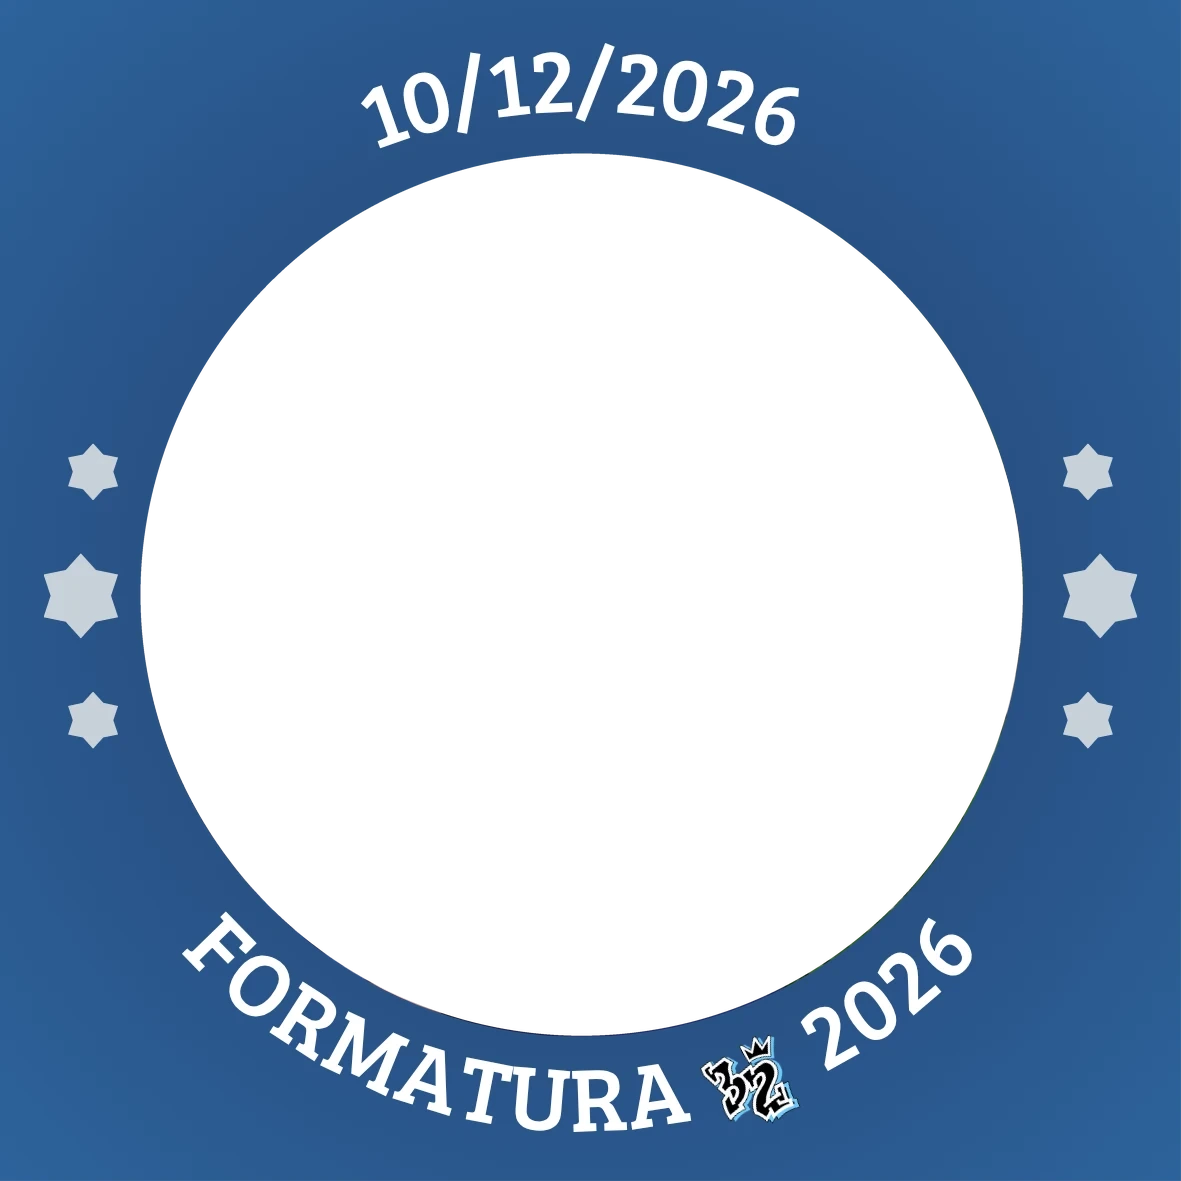
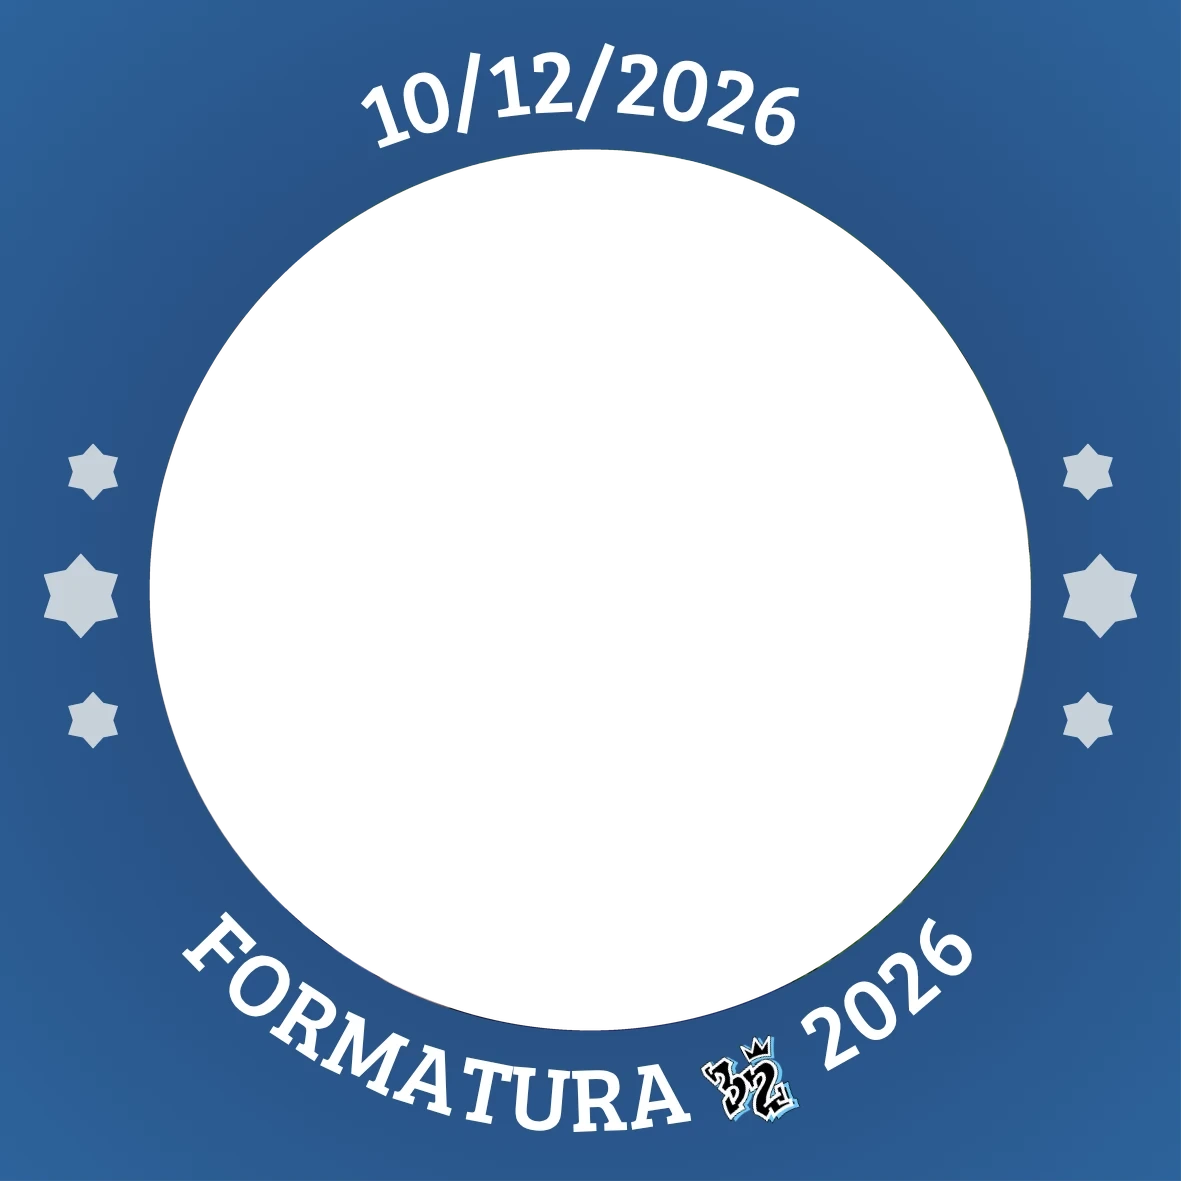
Adesivos: moldura de criança refeita a partir do modelo centralizado; todos os adesivos redondos, com a arte dentro do círculo
Claude-Session: https://claude.ai/code/session_01ApbxyEJycgSxQ1DmdRgPHa

diff --git a/src/pages/Adesivos.tsx b/src/pages/Adesivos.tsx
@@ -30,7 +30,8 @@ import {
   type Modelo,
   type Pedido,
 } from '../lib/adesivos';
-import { analisarCores, CORES, nomeDaCor, pintar, type Camada, type CamadaSugerida } from '../lib/cores';
+import { analisarCores, CORES, nomeDaCor, type Camada, type CamadaSugerida } from '../lib/cores';
+import { adesivoRedondo } from '../lib/redondo';
 import { lerEleitor, salvarEleitor } from '../lib/eleitor';
 import { COLUNAS, DIAMETRO, FOLHA, folhasPara, itensDasFolhas, LINHAS, MARGEM, pdfDasFolhas, POR_FOLHA } from '../lib/folhas';
 import { useIsMobile } from '../lib/useViewport';
@@ -55,21 +56,29 @@ function ArteDoModelo({ modelo, foto, nome, cores }: { modelo: Modelo; foto: str
     );
   }
   if (!modelo.imagem) return null;
-  const estilo: CSSProperties = { maxWidth: '100%', maxHeight: '100%', objectFit: 'contain', filter: 'drop-shadow(0 14px 22px rgba(0,0,0,.5))' };
-  return cores && modelo.camadas.length ? (
-    <ImagemNaCor imagem={modelo.imagem} camadas={modelo.camadas} cores={cores} alt={`${modelo.nome} (${descreverCores(modelo, cores)})`} style={estilo} />
-  ) : (
-    <img src={modelo.imagem} alt={modelo.nome} style={estilo} />
+  return (
+    <div style={{ width: '100%', borderRadius: '50%', boxShadow: '0 18px 40px rgba(0,0,0,.55)' }}>
+      <ImagemNaCor
+        imagem={modelo.imagem}
+        camadas={modelo.camadas}
+        cores={cores && modelo.camadas.length ? cores : null}
+        alt={cores && modelo.camadas.length ? `${modelo.nome} (${descreverCores(modelo, cores)})` : modelo.nome}
+      />
+    </div>
   );
 }
 
-/** A custom-colour sticker's picture, painted with `cores` (the original shows meanwhile). */
-function ImagemNaCor({ imagem, camadas, cores, alt, style }: { imagem: string; camadas: Camada[]; cores: string[]; alt: string; style?: CSSProperties }) {
+/**
+ * A sticker as it comes out: round, the picture fitted inside the circle on
+ * white (lib/redondo.ts), painted with `cores` when given. A plain white
+ * circle shows meanwhile.
+ */
+function ImagemNaCor({ imagem, camadas, cores, alt, style }: { imagem: string; camadas: Camada[]; cores: string[] | null; alt: string; style?: CSSProperties }) {
   const [url, setUrl] = useState<string | null>(null);
   useEffect(() => {
     let ativo = true;
     let criado: string | null = null;
-    pintar(imagem, camadas, cores).then(
+    adesivoRedondo(imagem, 600, camadas, cores).then(
       (blob) => {
         if (!ativo) return;
         criado = URL.createObjectURL(blob);
@@ -81,8 +90,12 @@ function ImagemNaCor({ imagem, camadas, cores, alt, style }: { imagem: string; c
       ativo = false;
       if (criado) URL.revokeObjectURL(criado);
     };
-  }, [imagem, JSON.stringify(camadas), cores.join()]);
-  return <img src={url ?? imagem} alt={alt} style={{ ...style, transition: 'opacity 200ms', opacity: url ? 1 : 0.6 }} />;
+  }, [imagem, JSON.stringify(camadas), cores?.join()]);
+  return url ? (
+    <img src={url} alt={alt} style={{ display: 'block', width: '100%', aspectRatio: '1', ...style }} />
+  ) : (
+    <div role="img" aria-label={alt} style={{ width: '100%', aspectRatio: '1', borderRadius: '50%', background: '#ffffff', opacity: 0.85, ...style }} />
+  );
 }
 
 /**
@@ -863,7 +876,7 @@ function FolhasDaGrafica({ pedidos, modelos, fotos }: { pedidos: Pedido[]; model
         </span>
         <span style={pequeno}>
           Cada adesivo com {DIAMETRO / 10} cm, margem de {MARGEM / 10} cm em volta da folha, {COLUNAS} × {LINHAS} = {POR_FOLHA} adesivos por folha. Um PDF no
-          tamanho real, uma página por folha. Os adesivos de criança saem redondos; os outros, com o lado maior em {DIAMETRO / 10} cm.
+          tamanho real, uma página por folha. Todos redondos: uma arte que não é redonda (como o 32) vai encaixada inteira dentro do círculo, sobre branco, com uma folga para o corte.
         </span>
         {semFoto.length > 0 ? (
           <span style={{ ...pequeno, color: 'var(--gild-300)' }}>
@@ -894,7 +907,7 @@ function LinhaGrafica({ chave, quantidade, modelos }: { chave: string; quantidad
     if (!modelo?.imagem || !cores) return;
     setBaixando(true);
     try {
-      salvarArquivo(await pintar(modelo.imagem, modelo.camadas, cores), `${slugDoNome(modelo.nome)}-${slugDoNome(cores.map((c) => nomeDaCor(c)).join('-'))}.png`);
+      salvarArquivo(await adesivoRedondo(modelo.imagem, 709, modelo.camadas, cores), `${slugDoNome(modelo.nome)}-${slugDoNome(cores.map((c) => nomeDaCor(c)).join('-'))}.png`);
     } catch (e) {
       window.alert(mensagemDe(e, 'Não foi possível baixar agora.'));
     } finally {
@@ -1007,7 +1020,7 @@ function ModelosDaComissao({
                   {m.crianca ? (
                     <AdesivoCrianca foto={null} nome="" />
                   ) : m.imagem ? (
-                    <img src={m.imagem} alt="" style={{ maxWidth: '100%', maxHeight: '100%', objectFit: 'contain' }} />
+                    <ImagemNaCor imagem={m.imagem} camadas={m.camadas} cores={null} alt="" />
                   ) : null}
                 </div>
                 <div style={{ display: 'flex', flexDirection: 'column', gap: 2, flex: 1, minWidth: 0 }}>
@@ -1235,7 +1248,7 @@ function FormModelo({
               }}
             >
               {previa ? (
-                <img src={previa} alt="" style={{ maxWidth: '100%', maxHeight: '100%', objectFit: 'contain' }} />
+                <ImagemNaCor imagem={previa} camadas={[]} cores={null} alt="" />
               ) : (
                 <>
                   <ImagePlus size={32} />

diff --git a/src/lib/redondo.ts b/src/lib/redondo.ts
@@ -1,0 +1,117 @@
+import { pintar, type Camada } from './cores';
+
+/**
+ * Every sticker is round (6 cm). A picture that isn't (the 32, cut to its
+ * shape) is fitted inside the circle, on white: centred on what's visible
+ * of it, and shrunk until no visible pixel comes closer than FOLGA to the
+ * edge — so nothing gets cut off.
+ */
+
+/** Space kept between the art and the cut, as a share of the radius. */
+const FOLGA = 0.1;
+
+const prontos = new Map<string, Promise<Blob>>();
+
+function carregar(src: string): Promise<HTMLImageElement> {
+  return new Promise((resolve, reject) => {
+    const img = new Image();
+    img.crossOrigin = 'anonymous';
+    img.onload = () => resolve(img);
+    img.onerror = () => reject(new Error('Não foi possível carregar a imagem do adesivo.'));
+    img.src = src;
+  });
+}
+
+/** The round sticker, `lado` pixels across, as a PNG (transparent outside the circle). */
+export function noCirculo(src: string, lado: number): Promise<Blob> {
+  const chave = `${src}|${lado}`;
+  if (!prontos.has(chave)) {
+    const feito = (async () => {
+      const img = await carregar(src);
+      // Where the visible pixels are (measured on a smaller copy, enough for this).
+      const k = Math.min(1, 400 / Math.max(img.naturalWidth, img.naturalHeight));
+      const w = Math.max(1, Math.round(img.naturalWidth * k));
+      const h = Math.max(1, Math.round(img.naturalHeight * k));
+      const medida = document.createElement('canvas');
+      medida.width = w;
+      medida.height = h;
+      const mctx = medida.getContext('2d', { willReadFrequently: true })!;
+      mctx.drawImage(img, 0, 0, w, h);
+      const px = mctx.getImageData(0, 0, w, h).data;
+      let x0 = w;
+      let y0 = h;
+      let x1 = 0;
+      let y1 = 0;
+      for (let y = 0; y < h; y++)
+        for (let x = 0; x < w; x++)
+          if (px[(y * w + x) * 4 + 3] > 20) {
+            if (x < x0) x0 = x;
+            if (x > x1) x1 = x;
+            if (y < y0) y0 = y;
+            if (y > y1) y1 = y;
+          }
+      if (x1 < x0) {
+        x0 = 0;
+        y0 = 0;
+        x1 = w - 1;
+        y1 = h - 1;
+      }
+      const cx = (x0 + x1 + 1) / 2;
+      const cy = (y0 + y1 + 1) / 2;
+      // The farthest visible pixel (its far corner) from that centre.
+      let longe = 1;
+      for (let y = y0; y <= y1; y++)
+        for (let x = x0; x <= x1; x++)
+          if (px[(y * w + x) * 4 + 3] > 20) {
+            const d = Math.hypot(Math.max(Math.abs(x - cx), Math.abs(x + 1 - cx)), Math.max(Math.abs(y - cy), Math.abs(y + 1 - cy)));
+            if (d > longe) longe = d;
+          }
+
+      const canvas = document.createElement('canvas');
+      canvas.width = lado;
+      canvas.height = lado;
+      const ctx = canvas.getContext('2d')!;
+      const raio = lado / 2;
+      ctx.beginPath();
+      ctx.arc(raio, raio, raio, 0, Math.PI * 2);
+      ctx.fillStyle = '#ffffff';
+      ctx.fill();
+      ctx.save();
+      ctx.clip();
+      // Art pixels per small-copy pixel, so the farthest one lands FOLGA inside the edge.
+      const escala = (raio * (1 - FOLGA)) / longe;
+      const escalaOriginal = escala * k;
+      ctx.imageSmoothingQuality = 'high';
+      ctx.drawImage(img, raio - cx * escala, raio - cy * escala, img.naturalWidth * escalaOriginal, img.naturalHeight * escalaOriginal);
+      ctx.restore();
+      return new Promise<Blob>((resolve, reject) =>
+        canvas.toBlob((b) => (b ? resolve(b) : reject(new Error('Não foi possível montar o adesivo.'))), 'image/png'),
+      );
+    })();
+    feito.catch(() => prontos.delete(chave));
+    prontos.set(chave, feito);
+  }
+  return prontos.get(chave)!;
+}
+
+const pintadosRedondos = new Map<string, Promise<Blob>>();
+
+/** The round sticker of a picture, painted with `cores` (one per part) first when given. */
+export function adesivoRedondo(src: string, lado: number, camadas: Camada[] = [], cores: string[] | null = null): Promise<Blob> {
+  if (!cores || camadas.length === 0) return noCirculo(src, lado);
+  const chave = `${src}|${lado}|${JSON.stringify(camadas)}|${cores.join()}`;
+  if (!pintadosRedondos.has(chave)) {
+    const feito = (async () => {
+      const url = URL.createObjectURL(await pintar(src, camadas, cores));
+      try {
+        return await noCirculo(url, lado);
+      } finally {
+        prontos.delete(`${url}|${lado}`);
+        URL.revokeObjectURL(url);
+      }
+    })();
+    feito.catch(() => pintadosRedondos.delete(chave));
+    pintadosRedondos.set(chave, feito);
+  }
+  return pintadosRedondos.get(chave)!;
+}

diff --git a/src/lib/folhas.ts b/src/lib/folhas.ts
@@ -6,7 +6,7 @@
  */
 import { pngDoAdesivo } from '../components/AdesivoCrianca';
 import { lerChave, type Modelo, type Pedido } from './adesivos';
-import { pintar } from './cores';
+import { adesivoRedondo } from './redondo';
 
 // Everything in millimetres.
 export const FOLHA = { largura: 330, altura: 460 };
@@ -45,8 +45,8 @@ function carregar(src: string): Promise<HTMLImageElement> {
 }
 
 /**
- * A picture fitted in the 6 cm square, on white: the childhood sticker cut
- * to its circle; any other one whole, its longest side 6 cm.
+ * A 6 cm square on white with the round sticker in it: the childhood one
+ * cut to its circle; any other one already round (redondo.ts).
  */
 async function quadrado(src: string, redondo: boolean): Promise<string> {
   const img = await carregar(src);
@@ -64,10 +64,7 @@ async function quadrado(src: string, redondo: boolean): Promise<string> {
     ctx.drawImage(img, 0, 0, PIXELS, PIXELS);
     ctx.restore();
   } else {
-    const k = PIXELS / Math.max(img.naturalWidth, img.naturalHeight);
-    const w = img.naturalWidth * k;
-    const h = img.naturalHeight * k;
-    ctx.drawImage(img, (PIXELS - w) / 2, (PIXELS - h) / 2, w, h);
+    ctx.drawImage(img, 0, 0, PIXELS, PIXELS);
   }
   return canvas.toDataURL('image/jpeg', 0.95);
 }
@@ -123,7 +120,7 @@ export function itensDasFolhas(pedidos: Pedido[], modelos: Modelo[], fotos: Reco
         rotulo: modelo.nome,
         quantidade: q,
         redondo: false,
-        gerar: cores && modelo.camadas.length ? async () => deBlob(await pintar(imagem, modelo.camadas, cores), (url) => quadrado(url, false)) : () => quadrado(imagem, false),
+        gerar: async () => deBlob(await adesivoRedondo(imagem, PIXELS, modelo.camadas, cores), (url) => quadrado(url, false)),
       });
     }
   }

diff --git a/src/components/AdesivoCrianca.tsx b/src/components/AdesivoCrianca.tsx
@@ -14,7 +14,7 @@ import { User } from 'lucide-react';
 export const MOLDURA = '/assets/adesivo-crianca-moldura.webp';
 /** The model's size, and where its photo circle is (measured on it). */
 const LADO = 1181;
-const FOTO = { cx: 581.5, cy: 594.5, r: 443 };
+const FOTO = { cx: 590.2, cy: 589.9, r: 442.5 };
 
 export function AdesivoCrianca({
   foto,

diff --git a/README.md b/README.md
@@ -518,8 +518,10 @@ escolhe quantos quer de cada modelo de adesivo para distribuir no baile.
   por combinação, com o arquivo de cada uma.
 - **Arquivo para a gráfica**: um PDF no tamanho real, folhas de 33 × 46 cm
   com margem de 3 cm, todos os adesivos com 6 cm (4 × 6 = 24 por folha), com
-  linha de corte opcional (`src/lib/folhas.ts`). Os de criança saem
-  redondos; os outros, com o lado maior em 6 cm.
+  linha de corte opcional (`src/lib/folhas.ts`). Todos são redondos: uma
+  arte que não é (como o 32) vai encaixada inteira dentro do círculo, sobre
+  branco, com folga para o corte (`src/lib/redondo.ts`) — e aparece assim
+  também na loja.
 - A chave Pix fica em `PIX`, em `src/lib/adesivos.ts`.
 - Para ligar: rode `supabase/adesivos.sql` no SQL Editor (depois de
   `infancia.sql`) e publique a função com `supabase functions deploy adesivos`.
